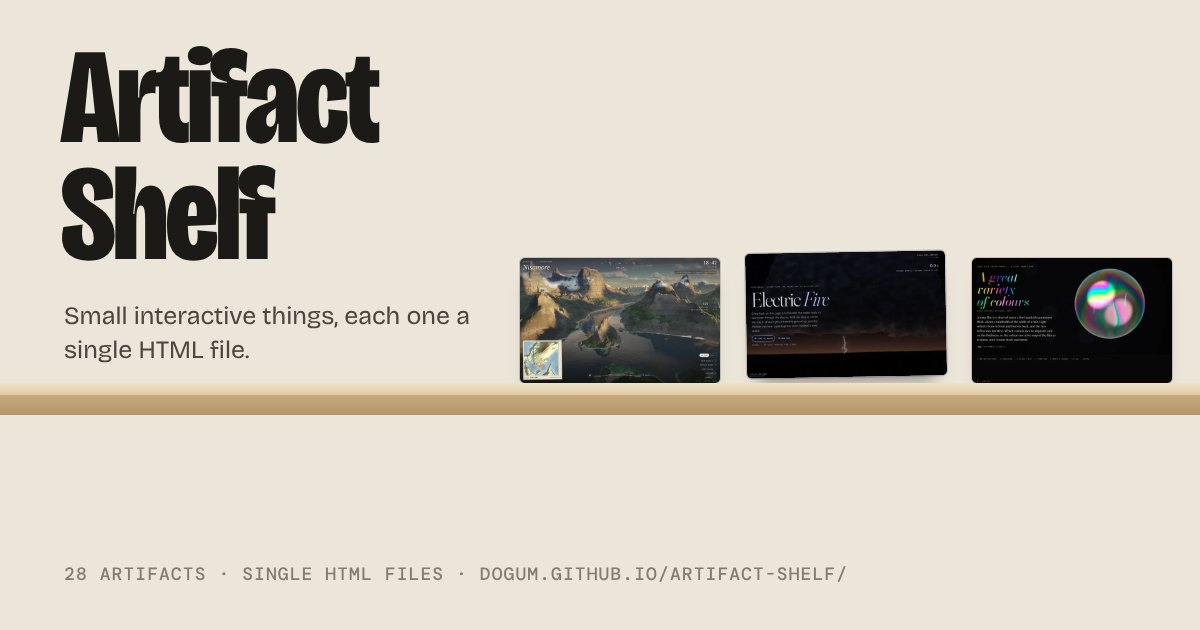
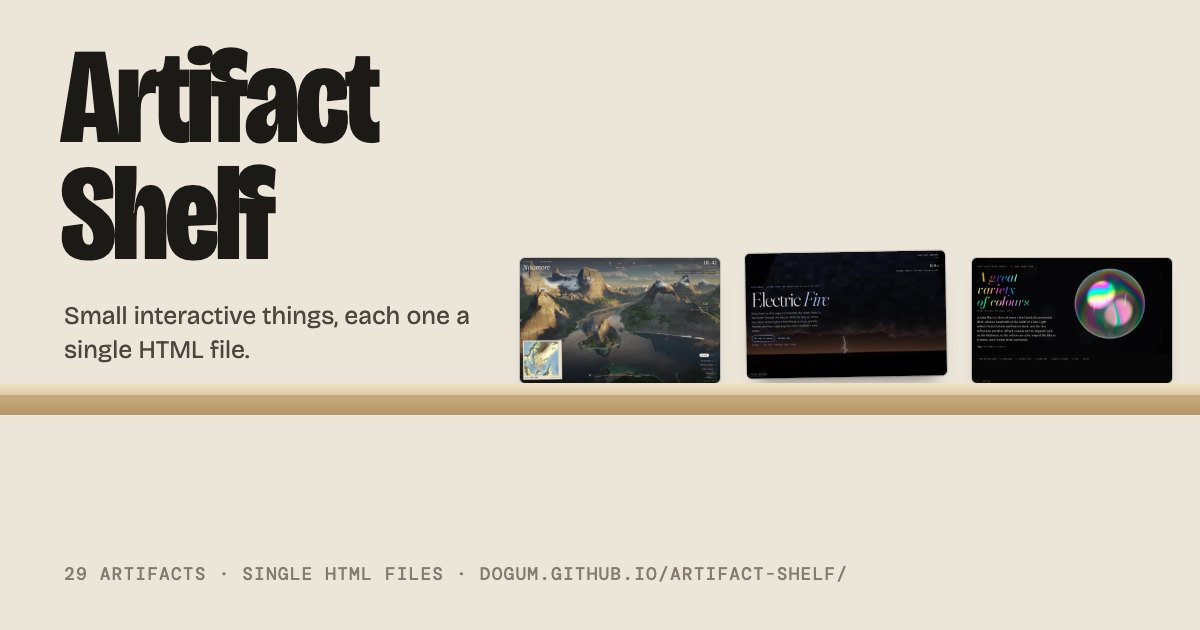
Renumber the Ovechkin share cards; changelog for this week's pieces
Folded Sky landed first and is dated earlier, so the three Ovechkin
pieces each move up one number. The changelog gains Orbital Compute
Node, Collision Course, Folded Sky and capture_motion.

diff --git a/CHANGELOG.md b/CHANGELOG.md
@@ -12,8 +12,14 @@ All notable changes to this project are documented here. Versions follow [semant
 - The home display window rotates through every featured artifact; it was capped at seven.
 - `stage: tall` in an artifact's front matter gives it the tall stage on any shelf (documented in docs/WRITEUPS.md). The Navier–Stokes page's figures now work only while on screen.
 
+### Tools
+- `capture_motion: reduce` in an artifact's front matter runs the poster browser with reduced motion, for pages that animate into the state the poster should show. The capture browser renders slowly, so a fade or a tour could be caught halfway (documented in docs/WRITEUPS.md and the shelf skill).
+
 ### Artifacts
 - Three pieces on Alex Ovechkin's goals, in the Capitals' navy, red and white. The Office, on the Explainers shelf: every NHL goal he has scored on the half rink where he shot it, with a career playback, his chase past Howe and Gretzky (raw or era-adjusted), heat and finishing lenses, and tracking replays. Who Could Catch Him?, on the Simulations shelf with a tall stage: 10,000 simulated careers for each of 117 active scorers, run in the browser. The Last Three Seconds, on the Explainers shelf: the 111 goals with NHL EDGE tracking, overlaid so every puck reaches the net at once, and the timing of his one-timer. The shelf copies are data snapshots from early November 2026.
+- Folded Sky, on the Explainers shelf: Yohei Nishitsuji's 280-character twigl cloud shader, run verbatim with credit and annotated fragment by fragment, beside a physically based volumetric cloud renderer you can light and fly through. It starts paused behind a Run button because both halves are GPU-heavy.
+- Collision Course, on the Simulations shelf: the Milky Way and Andromeda and five classic galaxy encounters as restricted many-body simulations on the GPU, with a Local Group scene that runs hundreds of possible futures from today's measurements.
+- Orbital Compute Node, on the Explainers shelf: an isometric cutaway of a 1 MW orbital data center node around 2030, with an exploding compute bay, GPU clock settings and a thermal view that follows the heat from chips to radiator. The page inlines the Anatomy isometric kit and carries its MIT notice.
 - Landfall, on the Generative Art shelf and in the display case: an island world raymarched in a fragment shader from one 32-bit seed, with fjords, mesas and atolls, a physically scattered sky, clouds and water, a survey map, postcards and a Web Audio score. The shelf copy gives the page an inline icon so its request counter reads zero.
 - Raindrop, on the Explainers shelf: tap anywhere in the US and follow a raindrop down the USGS river network to wherever it ends, with live gauge readings. The shelf copy keeps the camera above the terrain (MapLibre left it at sea level under the hills, which turned the screen black), smooths the hand-off from the landing to the river, steadies the view over meanders and eases the drop in and out of lakes.
 - Electric Fire, on the Simulations shelf with a tall stage and in the display case: lightning grown by the dielectric breakdown model, with return strokes, thunder synthesised from the bolt's shape and Lichtenberg figures in acrylic. The shelf copy keeps real time, loads its Canvas 2D parts and checks without WebGL2, plays thunder that was on its way when sound is turned on, holds back automatic flashes under reduced motion, and drops a build note from the footer.
